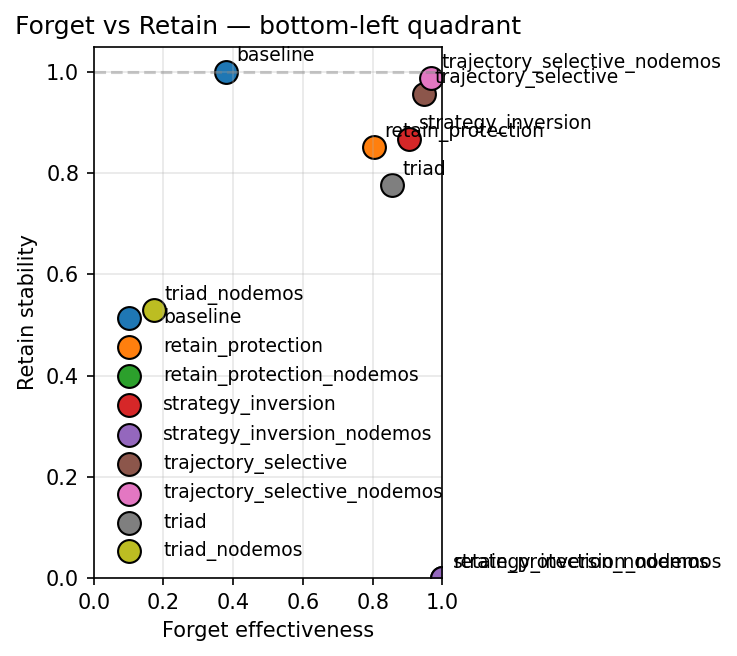
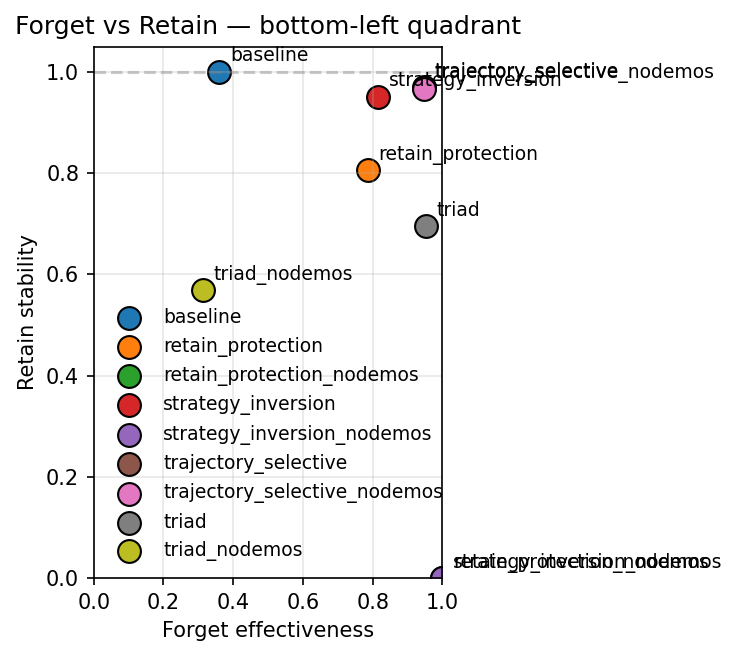
Add before/after unlearning GIF generator + Empty-8x8 GIFs
scripts/make_unlearn_gif.py renders a policy rollout to MP4-style frames
via the env's render_mode="rgb_array" and overlays the scenario's forget
region as a translucent red rectangle. Three GIFs produced for the
Empty-8x8 / avoid_bottom_left poster panel:

- before.gif (baseline path through BL, 14 steps/ep)
- after_trajectory_selective.gif (alternative path, 14 steps/ep)
- after_triad.gif (TRIAD with softened constraints, 26 steps/ep)

Also softened TRIAD on Empty-8x8: metaplasticity threshold 0.7→0.9,
distillation alpha 0.2→0.05, synthetic_mix_ratio 0.5→0.25. TRIAD still
underperforms trajectory_selective on Empty-8x8 because the env's single
deterministic path leaves little room for masks+distillation to help —
expected to perform better on FourRooms where the policy has more
degrees of freedom.

diff --git a/scripts/make_unlearn_gif.py b/scripts/make_unlearn_gif.py
@@ -1,0 +1,145 @@
+"""Render before/after unlearning GIFs for MiniGrid envs.
+
+For each checkpoint, roll out a single episode with the policy and render
+to RGB frames. Overlay the scenario's forget region as a translucent red
+rectangle. Stitch frames into a GIF.
+
+Usage:
+    python scripts/make_unlearn_gif.py --env empty8x8 \\
+        --variant trajectory_selective \\
+        --forget-box 1 3 4 6 \\
+        --output docs/images/results/empty8x8_with_demos/after_trajectory_selective.gif
+
+    # baseline:
+    python scripts/make_unlearn_gif.py --env empty8x8 \\
+        --variant baseline --forget-box 1 3 4 6 \\
+        --output docs/images/results/empty8x8_with_demos/before.gif
+
+    # side-by-side: produced as before.gif + after_*.gif separately, then
+    # the poster combines them visually.
+"""
+
+from __future__ import annotations
+
+import argparse
+import sys
+from pathlib import Path
+from typing import List, Tuple
+
+import imageio.v2 as imageio
+import numpy as np
+import torch
+
+ROOT = Path(__file__).resolve().parents[1]
+sys.path.insert(0, str(ROOT / "src"))
+
+from agents import PPOAgent  # noqa: E402
+from utils.env_wrappers import make_env  # noqa: E402
+
+GEOMETRY = {
+    "fourrooms": {"env_id": "MiniGrid-FourRooms-v0", "obs_dim": 150},
+    "empty8x8":  {"env_id": "MiniGrid-Empty-8x8-v0", "obs_dim": 150},
+}
+
+
+def load_agent(ckpt_path: Path, obs_dim: int, n_actions: int = 7) -> PPOAgent:
+    agent = PPOAgent(observation_dim=obs_dim, action_dim=n_actions, device="cpu")
+    state = torch.load(ckpt_path, map_location="cpu")
+    agent.network.load_state_dict(state["network"])
+    return agent
+
+
+def overlay_forget_region(
+    frame: np.ndarray,
+    forget_box: Tuple[int, int, int, int],
+    tile_size: int,
+    alpha: float = 0.45,
+) -> np.ndarray:
+    """Tint the forget-box cells red on a copy of the frame."""
+    xlo, xhi, ylo, yhi = forget_box
+    out = frame.copy()
+    x0, x1 = xlo * tile_size, (xhi + 1) * tile_size
+    y0, y1 = ylo * tile_size, (yhi + 1) * tile_size
+    red_layer = np.zeros_like(out[y0:y1, x0:x1])
+    red_layer[..., 0] = 255  # pure red
+    out[y0:y1, x0:x1] = (
+        (1 - alpha) * out[y0:y1, x0:x1].astype(np.float32)
+        + alpha * red_layer.astype(np.float32)
+    ).astype(np.uint8)
+    return out
+
+
+def rollout_frames(
+    env_id: str, ckpt_path: Path, forget_box: Tuple[int, int, int, int],
+    seed: int = 0, max_steps: int = 60, deterministic: bool = False,
+    obs_dim: int = 150,
+) -> List[np.ndarray]:
+    env = make_env(env_id, seed=seed, render_mode="rgb_array")
+    obs, _ = env.reset(seed=seed)
+    agent = load_agent(ckpt_path, obs_dim=obs_dim)
+
+    # Render the initial state so the GIF starts with the unmoved agent.
+    img = env.render()
+    tile = img.shape[1] // env.unwrapped.width
+    frames = [overlay_forget_region(img, forget_box, tile)]
+
+    for _ in range(max_steps):
+        action, _ = agent.select_action(obs, deterministic=deterministic)
+        obs, r, term, trunc, _ = env.step(action)
+        frames.append(overlay_forget_region(env.render(), forget_box, tile))
+        if term or trunc:
+            break
+    env.close()
+    return frames
+
+
+def main():
+    p = argparse.ArgumentParser()
+    p.add_argument("--env", choices=list(GEOMETRY.keys()), default="empty8x8")
+    p.add_argument("--variant", required=True,
+                   help="'baseline' or any unlearned variant name (e.g. 'trajectory_selective', 'triad', 'triad_nodemos').")
+    p.add_argument("--experiment", default=None,
+                   help="default: {env}_ppo_seed42")
+    p.add_argument("--forget-box", nargs=4, type=int, required=True,
+                   metavar=("XLO", "XHI", "YLO", "YHI"),
+                   help="Forget region in grid coords (inclusive).")
+    p.add_argument("--output", required=True)
+    p.add_argument("--seed", type=int, default=0)
+    p.add_argument("--max-steps", type=int, default=60)
+    p.add_argument("--num-episodes", type=int, default=3,
+                   help="Concatenate N episodes into one GIF for variety.")
+    p.add_argument("--fps", type=int, default=6)
+    p.add_argument("--deterministic", action="store_true",
+                   help="Use argmax (vs sampled) actions.")
+    args = p.parse_args()
+
+    geom = GEOMETRY[args.env]
+    if args.experiment is None:
+        args.experiment = f"{args.env}_ppo_seed42"
+
+    if args.variant == "baseline":
+        ckpt = ROOT / "experiments" / "checkpoints" / args.experiment / "final_model.pt"
+    else:
+        ckpt = ROOT / "experiments" / "checkpoints" / args.experiment / f"unlearned_{args.variant}.pt"
+    if not ckpt.exists():
+        sys.exit(f"checkpoint not found: {ckpt}")
+
+    forget_box = tuple(args.forget_box)
+    all_frames: List[np.ndarray] = []
+    for ep in range(args.num_episodes):
+        frames = rollout_frames(
+            geom["env_id"], ckpt, forget_box,
+            seed=args.seed + ep, max_steps=args.max_steps,
+            deterministic=args.deterministic, obs_dim=geom["obs_dim"],
+        )
+        all_frames.extend(frames)
+
+    out_path = Path(args.output)
+    out_path.parent.mkdir(parents=True, exist_ok=True)
+    duration = 1.0 / max(args.fps, 1)
+    imageio.mimsave(out_path, all_frames, duration=duration, loop=0)
+    print(f"Wrote {len(all_frames)} frames to {out_path}")
+
+
+if __name__ == "__main__":
+    main()
